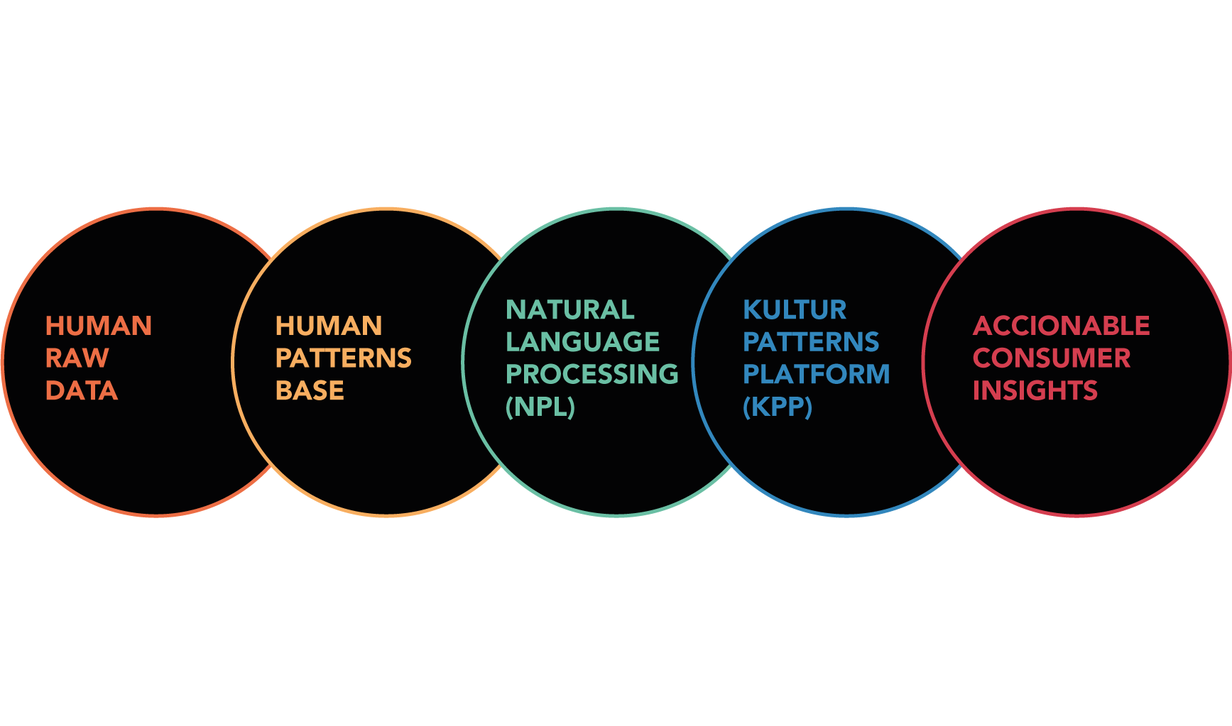
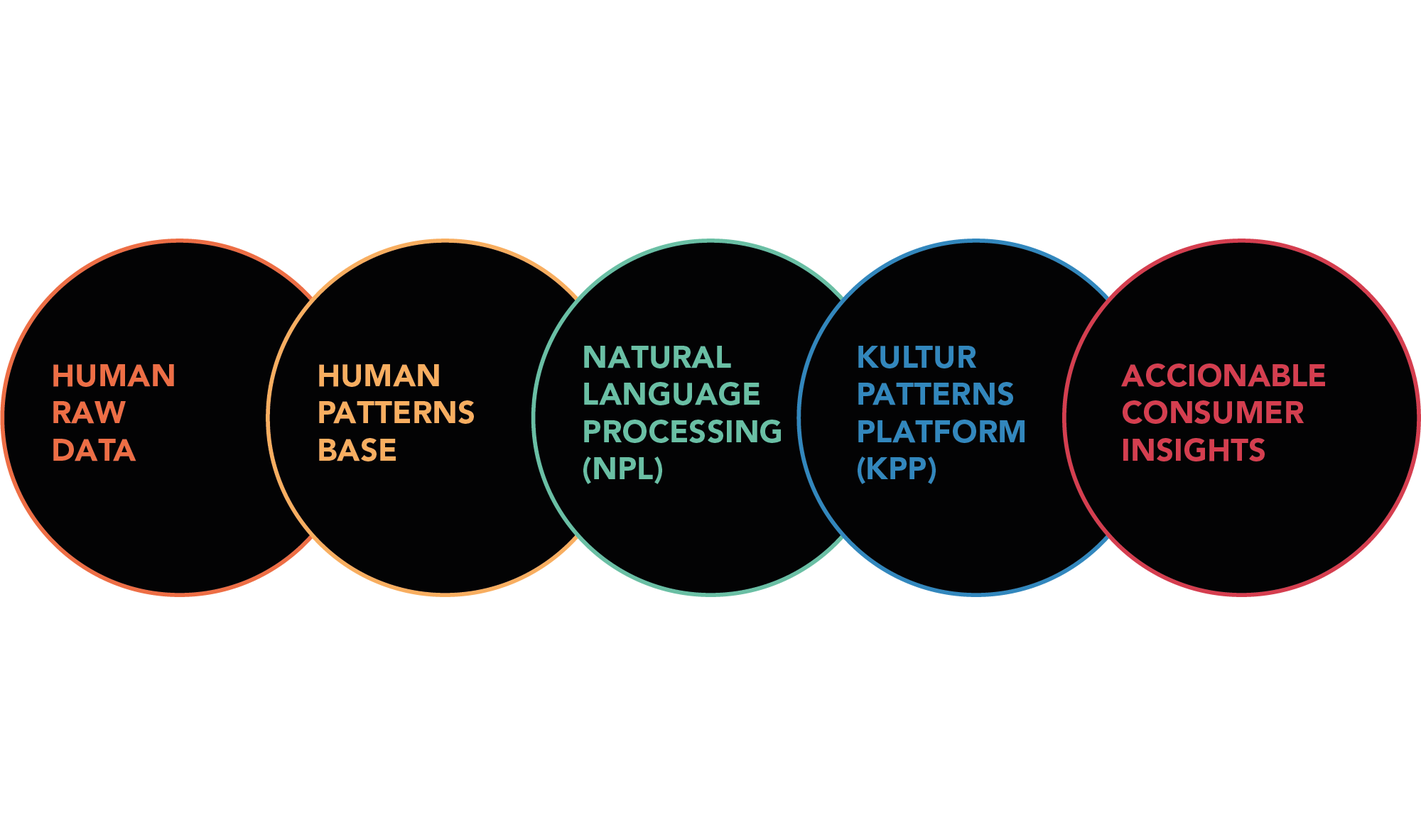
change main font

diff --git a/assets/css/style.css b/assets/css/style.css
@@ -1,1 +1,1 @@
-@import"https://fonts.googleapis.com/css2?family=Open+Sans:wght@700&family=Roboto+Mono:wght@200;300;400&display=swap";@media only screen and (min-width: 652px){.to-laptop{display:none !important}}.from-laptop{display:none}@media only screen and (min-width: 652px){.from-laptop{display:initial !important}}@media only screen and (min-width: 822px){.to-desktop{display:none !important}}.from-desktop{display:none}@media only screen and (min-width: 822px){.from-desktop{display:initial !important}}html,body,p,ol,ul,li,dl,dt,dd,blockquote,figure,fieldset,form,legend,textarea,pre,iframe,hr,h1,h2,h3,h4,h5,h6{padding:0;margin:0;-moz-osx-font-smoothing:grayscale;-webkit-font-smoothing:antialiased}html{box-sizing:border-box;font-family:"Roboto Mono",monospace;margin-top:0 !important}@media only screen and (min-width: 400px){html{font-size:1rem}}@media only screen and (min-width: 1500px){html{font-size:1.5rem}}@media only screen and (min-width: 4000px){html{font-size:3rem}}*,*::before,*::after{box-sizing:inherit}body{font-weight:normal;color:#fff;text-align:left;background-color:#000}h1,h2,h3,h4,h5,h6{font-family:"Open Sans",sans-serif}a,p,span,div{font-size:1rem}h1,h1 *{font-size:2rem}h2,h2 *{font-size:1.6rem}h3,h3 *{font-size:1.3rem}h4,h4 *{font-size:1.2rem}h5,h5 *{font-size:1.1rem}h6,h6 *{font-size:1rem}@media only screen and (min-width: 822px){h1,h1 *{font-size:2.5rem}h2,h2 *{font-size:1.9rem}}p{font-weight:300;padding-bottom:1rem}button{cursor:pointer}img{height:auto;width:100%}main{margin:auto;overflow:hidden}main>*{background-color:#000}.display-block{display:block}.icon{width:1rem;display:inline-flex;justify-content:center}.icon img{height:100%;width:auto}.post-thumbnail{max-height:50vh;overflow:hidden}.btn{border:none;outline:0;padding:.8rem 3rem;width:100%;font-weight:bold;font-size:1rem;border-radius:2rem;cursor:pointer}.btn-red{color:#fff;background-color:#d53e4f}.btn-red:hover{background-color:#67c1a4;color:#000}.mobile-menu .modal-content{background-color:#d53e4f}.mobile-menu .modal-content .logo{padding:.8rem 1rem;height:2.5rem}.desktop-menu-nav-container{display:flex;align-items:center}.desktop-menu .subscription-button{height:2rem;display:flex;justify-content:center;align-items:center;font-size:1rem;width:max-content;padding:0 2rem}.kulturai-mobile-menu ul,.kulturai-desktop-menu ul{list-style:none}.kulturai-mobile-menu li,.kulturai-desktop-menu li{align-items:center;display:flex;margin-right:.5rem}.kulturai-mobile-menu a,.kulturai-desktop-menu a{color:#fff;padding:.6rem;text-decoration:none;width:100%}.kulturai-mobile-menu{margin:auto;padding-left:1.5rem;font-weight:200;margin-top:.5rem}.kulturai-desktop-menu{font-family:"Open Sans",sans-serif;font-weight:300}.kulturai-desktop-menu ul{display:flex;justify-content:flex-end;margin-right:.5rem}.kulturai-desktop-menu li.current-menu-item a{color:#d53e4f}.kulturai-desktop-menu a:hover{color:#67c1a4}.modal{display:flex;height:100%;position:fixed;width:100%;z-index:10000;margin:auto}.modal-background{align-items:center;background-color:#000;display:flex;height:100%;justify-content:center;opacity:.8;flex-basis:40%;flex-grow:1}.modal-background img{width:.8rem}@media only screen and (min-width: 822px){.modal-background{background-color:rgba(0,0,0,0)}.modal-background img{display:none}}.modal-content{background-color:#fff;padding:1rem;flex-basis:80%;overflow:hidden}.modal-header{max-height:2.5rem}.modal--left .modal-content,.modal--right .modal-content{max-width:19rem}@media only screen and (min-width: 822px){.modal--left .modal-content,.modal--right .modal-content{max-width:25rem}}.modal--left{transition:right .3s ease-out;flex-direction:row-reverse;right:100%;top:0}.modal--left.modal--show{right:0}.modal--right{transition:left .3s ease-out;flex-direction:row;left:100%;top:0}.modal--right.modal--show{left:0}.modal--bottom{transition:top .3s ease-out;flex-direction:column;top:100%;left:0}.modal--bottom.modal--show{top:0}.modal--bottom.modal--round .modal-content{border-radius:2rem 2rem 0 0}.modal--bottom.modal-background{flex-basis:20%}.modal--bottom.modal-content{flex-basis:80%}.modal--dark .modal-content{background:#000;border-left:.125rem solid #fff}.padding-bottom{padding-bottom:3rem}.padding-top{padding-top:3rem}.margin-bottom{margin-bottom:3rem}.margin-top{margin-top:3rem}.section-block{padding-left:1rem;padding-right:1rem}@media only screen and (min-width: 400px){.section-block{padding-left:2.5rem;padding-right:2.5rem}}.paginator{color:#bda869;padding:3rem 0 0;margin:auto;width:max-content;display:flex}@media only screen and (min-width: 652px){.paginator{margin:initial;margin-left:auto;padding:3rem 3rem 0 0}}.paginator-text{margin-right:2rem}.paginator-arrow{display:flex}.paginator-arrow-left{display:flex;transform:rotate(180deg);margin-right:2rem}.paginator-arrow-right{display:flex}.paginator-arrow-icon{display:flex}.paginator-arrow--hide{opacity:.5;cursor:auto}@media only screen and (min-width: 652px){#subscription-modal{flex-direction:row;left:100%;top:0;transition:left .3s ease-out}#subscription-modal.modal--show{left:0}#subscription-modal .modal-content{border-radius:0;max-width:25rem}#subscription-modal .modal-header{display:none}}.image-slider .slide-content{display:flex}@media only screen and (min-width: 652px){.image-slider .slide-content{width:100% !important;display:block}.image-slider .slide-content img{width:100% !important}}.kulturai-form-group{margin:1rem}.kulturai-form-control{width:100%;border:0;outline:0}.kulturai-form-space-2{margin-top:2rem}.kulturai-form textarea,.kulturai-form input[type=text],.kulturai-form input[type=email],.kulturai-form input[type=number]{padding:.4rem 1rem;border-radius:1rem;font-size:1rem;font-family:"Roboto Mono",monospace;font-weight:200}.alert{width:100%;overflow:hidden;border-radius:.3125rem;margin-bottom:2rem;transition:height 1s,padding 1s,opacity 1s;height:0;padding:0 .625rem;opacity:1}.alert--open{height:3.125rem;padding:.3125rem .25rem}.alert--close{opacity:0}.alert-success{background:#61b393}.kulturio-header{background-color:rgba(0,0,0,0);display:flex;height:3rem;justify-content:flex-end;padding:0 .625rem;position:relative;width:100%}.kulturio-header .hamburguer-menu,.kulturio-header .logo{height:100%;padding:1rem}.kulturio-header .hamburguer-menu img,.kulturio-header .logo img{height:100%;width:auto}.kulturio-header .hamburguer-menu{cursor:pointer;padding:1rem}.kulturio-header .hamburguer-menu.fixed{position:absolute;right:.625rem;top:0}.kulturio-header .sticky-header{background:#000;height:3.125rem;left:0;padding:0 .625rem;position:fixed;top:-3.125rem;transition:top .5s;width:100%;z-index:999}.kulturio-header .sticky-header>div{display:flex;margin:auto;height:100%;justify-content:space-between}.kulturio-header.scrolled .sticky-header{top:0}.fixed-header .kulturio-header .static-header{visibility:hidden}.fixed-header .kulturio-header .sticky-header{top:0}.fixed-header .kulturio-header>.hamburguer-menu{display:none}.hidden-header .kulturio-header{display:none}.home-video{height:70%;position:absolute;top:0;left:0;z-index:-2;width:100%;overflow:hidden;height:100%}.home-video-content{position:relative}.home-video-content:after{content:"";display:block;position:absolute;width:100%;height:100%;top:0;left:0;background-image:linear-gradient(transparent 0%, black 50%)}.home-video video{height:100%;width:auto}@media only screen and (min-width: 1024px){.home-video video{width:100%;height:auto}}.intro{display:flex;flex-direction:column;justify-content:space-between;min-height:37.5rem;background-color:rgba(0,0,0,0);max-width:75rem;margin:auto}@media only screen and (min-width: 652px){.intro{margin-top:2rem;flex-direction:row;min-height:auto}}.intro-info{display:flex;flex-direction:column;height:calc(100vh - 3rem - 3rem - 2.5rem);justify-content:space-between;padding-bottom:3rem}@media only screen and (min-width: 652px){.intro-info{flex-basis:50%;justify-content:flex-start;height:100%}.intro-info button{max-width:18rem}}.intro-icon{margin:0 auto;max-width:31.25rem;width:13rem}@media only screen and (min-width: 652px){.intro-icon{margin:0;width:100%}}.intro-description{line-height:1.2;text-align:center;max-width:26rem;margin:auto}@media only screen and (min-width: 652px){.intro-description{margin:3rem 0;text-align:left}}.intro-image{width:130%;position:relative;left:50%;margin-left:-65%;padding-top:2rem;background-color:#000;max-width:31.25rem}@media only screen and (min-width: 652px){.intro-image{flex-basis:50%;margin:0;position:static;background-color:rgba(0,0,0,0)}}.subscription-button-mobile{display:none;position:fixed;padding:1rem;width:100%;left:0;z-index:10;bottom:0}.subscription-button-mobile button{max-width:100%}.subscription-button-mobile.fixed{display:block}@media only screen and (min-width: 822px){.subscription-button-mobile.fixed{display:none}}.whoarewe{text-align:center}.whoarewe-text{max-width:40.6rem;margin:auto}.whoarewe-image{margin-bottom:6rem}@media only screen and (min-width: 652px){.whoarewe-image{transform:translateX(0) !important;max-width:45rem;margin:6rem auto}}.whoarewe-image img{width:220%;height:100%}@media only screen and (min-width: 652px){.whoarewe-image img{width:100%}}.whoarewe-slide{display:flex;justify-content:flex-end;margin-top:4rem;margin-bottom:2rem}.whoarewe-slide>span{display:flex;flex-direction:column;text-align:left;line-height:0;font-size:1rem;position:relative;right:0}@media only screen and (min-width: 652px){.whoarewe-slide{visibility:hidden}}.whoarewe-table{width:20rem;margin:auto;margin-top:1.2rem;width:100%}@media only screen and (min-width: 652px){.whoarewe-table{display:flex;width:auto;max-width:81rem;margin:2rem auto}}.whoarewe-table-row{position:relative}.whoarewe-table-row:after{content:"";display:block;width:.05rem;background:#fff;margin:1.5rem auto;height:5rem}.whoarewe-table-row:last-child:after{display:none}@media only screen and (min-width: 652px){.whoarewe-table-row{flex-basis:33%;padding:0 1rem}.whoarewe-table-row:after{margin:0;position:absolute;top:-0.2rem;right:0;height:90%}.whoarewe-table-row:first-child{padding-left:0}.whoarewe-table-row:last-child{padding-right:0}}.curve{width:100%}.curve svg path{stroke-width:3}@media only screen and (min-width: 592px){.curve svg path{stroke-width:2}}@media only screen and (min-width: 822px){.curve svg path{stroke-width:1}}.methodology{text-align:center}.methodology-text{max-width:37.5rem;margin:auto}@media only screen and (min-width: 652px){.methodology-image{transform:translateX(0) !important;max-width:45rem;margin:auto}}.methodology-image img{width:290%;height:100%}@media only screen and (min-width: 652px){.methodology-image img{width:100%}}.methodology-slide{display:flex;justify-content:flex-end;margin-top:4rem;margin-bottom:2rem}.methodology-slide>span{display:flex;flex-direction:column;text-align:left;line-height:0;font-size:1rem;position:relative;right:0}@media only screen and (min-width: 652px){.methodology-slide{visibility:hidden}}.value-proposition{text-align:center}@media only screen and (min-width: 822px){.value-proposition-table{display:flex;max-width:81rem;margin:auto}}.value-proposition-table-row{padding-bottom:4rem}@media only screen and (min-width: 822px){.value-proposition-table-row{flex-basis:33.33%;display:flex;flex-direction:column;justify-content:space-between;padding-left:1rem;padding-right:1rem;position:relative}.value-proposition-table-row:after{content:"";display:block;width:.05rem;background:#fff;margin:1.5rem auto;height:5rem;margin:0;position:absolute;top:10%;right:0;height:70%}.value-proposition-table-row:last-child:after{display:none}}.value-proposition .slide{margin-top:2rem}@media only screen and (min-width: 822px){.value-proposition .slide{transform:translateX(0) !important}}.value-proposition .slide-content{margin-top:1rem}@media only screen and (min-width: 652px){.value-proposition .slide-content{width:100% !important}.value-proposition .slide-content img{width:50%}}@media only screen and (min-width: 822px){.value-proposition .slide-content img{width:100%}}.background-fixed{min-height:20rem;background-attachment:fixed;background-position:top center;background-repeat:no-repeat;background-size:250% auto}@media only screen and (min-width: 482px){.background-fixed{background-size:230% auto}}@media only screen and (min-width: 652px){.background-fixed{background-size:cover;background-position:top center}}.services{text-align:center}@media only screen and (min-width: 652px){.services{padding-top:6rem}}.services-title{max-width:40rem;margin:auto}.services-table{max-width:18rem;margin:auto}@media only screen and (min-width: 652px){.services-table{display:flex;justify-content:space-around;max-width:81rem;margin:3rem auto}}.services-table-row{flex-basis:33.33%;margin-top:3rem}@media only screen and (min-width: 652px){.services-table-row{margin-right:2rem}.services-table-row:last-child{margin-right:0}}.services-table-row img{width:4rem}.newsletter{color:#000}.newsletter .contact-description strong{color:#d53e4f}.newsletter .kulturai-form-control{border:1px solid #707070}.about{padding:3rem;text-align:center;max-width:70rem;margin:auto}.about-logo{max-width:12.5rem;width:70%;margin:auto}.about-content{margin:2rem auto}.about-content-text p{margin-bottom:1rem}.about-arrow{height:15rem;margin:auto;font-size:.9rem}.about-ceo{margin-bottom:2rem}.about-ceo-text{margin-top:1rem}.about-ceo-photo{height:17rem;width:17rem;margin:auto;border-radius:50%;background-size:cover;background-position:center}@media only screen and (min-width: 822px){.about-logo{max-width:23rem}.about-divided{display:flex}.about-divided .about-content-text{text-align:left}.about-divided .about-content-text{text-align:left}.about-divided .about-ceo{width:50%;padding-right:1rem}.about-divided .about-content-text{width:50%}}.blog{max-width:70rem;margin:auto}.blog-title{width:4rem;margin:auto;display:flex;flex-direction:column}.blog-title h2{color:#d53e4f;text-align:center}.blog-description{text-align:center;display:block;width:100%;max-width:24rem;margin:0 auto 0;padding-top:1rem;font-weight:300}.blog-list{display:grid;gap:2rem 1rem;padding:2rem}@media only screen and (min-width: 652px){.blog-list{grid-template-columns:1fr 1fr}}@media only screen and (min-width: 822px){.blog-list{grid-template-columns:1fr 1fr 1fr}}.blog-card{height:13rem;overflow:hidden;position:relative;border-radius:.5rem;background-color:#fff;max-width:20rem;margin:auto;width:100%}.blog-card-content{position:absolute;bottom:0;left:0;padding:.7rem;line-height:1}.blog-card img{height:100%;width:auto;opacity:.8}.blog-card a{display:flex;justify-content:center;align-items:center;height:100%;width:100%;text-decoration:none;color:#fff;text-shadow:1px 1px 2px gray;background-color:#000}.blog-card .blog-card-noimage{background-color:#fff}.blog-card .blog-card-noimage img{width:6rem !important;height:auto !important;opacity:.3}.contact{max-width:70rem;margin-left:auto;margin-right:auto;max-width:22rem}.contact-title{width:4rem;margin:auto;display:flex;flex-direction:column}.contact-title h2{color:#d53e4f;text-align:center}.contact-description{text-align:center;display:block;max-width:19rem;margin:0 auto 0;padding-top:1rem;font-weight:300}.contact-form{margin:auto;padding:1rem;padding-top:0}.resources-menu-action,.contact-menu-action{cursor:pointer}.contact-modal .contact-form{max-width:100%}.resources{margin-left:auto;margin-right:auto;position:relative}.resources-image{position:absolute;top:0;left:0;overflow:hidden;height:16.25rem;width:100%}.resources-image img{position:absolute;bottom:0}.resources-image:after{content:"";background:#000;height:1.625rem;display:block;width:100%;position:absolute;bottom:-0.8125rem;border-radius:50%}.resources-content{padding-top:15.625rem}.resources-description{text-align:center;display:block;max-width:13rem;margin:0 auto 0;padding-top:1rem;font-weight:300}.resources-form{max-width:22rem;margin:auto;padding:1rem;padding-top:0}.resource-modal .modal-content{padding:0}.singular{padding:3rem;max-width:70rem;margin:auto;position:relative}.singular-title{color:#d53e4f;margin-bottom:2rem}.singular-author{font-weight:bold}.singular-related{margin-top:1rem}.singular-related-title{color:#bda869;display:block}.singular-related-container{display:flex;width:350%}@media only screen and (min-width: 822px){.singular-related-container{width:125%}}@media only screen and (min-width: 4000px){.singular-related-container{width:100%}}.singular-related-card{margin-left:1rem;height:11rem}.singular-related-card.blog-card{max-width:25%}.singular-related-card:first-child{margin-left:0}@media only screen and (min-width: 822px){.singular{padding:4rem}.singular-info{margin-top:2rem}}.subscribed{padding:2rem}.subscribed-logo{margin-left:auto;width:15rem}@media only screen and (min-width: 652px){.subscribed-content *{font-size:1.2rem}}@media only screen and (min-width: 822px){.subscribed-main{display:flex;flex-direction:row-reverse;margin-top:4rem;justify-content:space-around}}.subscribed-container{padding:4rem 0 2rem 0;max-width:19rem}@media only screen and (min-width: 482px){.subscribed-container{padding:4rem 2rem;display:flex;flex-direction:column;max-width:29rem}}.subscribed-title{margin-bottom:1.5rem}.subscribed-image{display:flex;justify-content:center;max-width:20rem;margin:auto}@media only screen and (min-width: 652px){.subscribed-image{margin:initial}}.error{font-weight:300}.error-content{margin:3rem 2rem 0;max-width:19rem}.error-image{max-width:30rem;width:100%}@media only screen and (min-width: 652px){.error-image{position:absolute;right:0;bottom:-4rem;z-index:-1}}.error-title{font-size:1.6rem;line-height:1}.error-number{font-size:5.5rem;font-weight:100}.error-text{margin-top:2rem}@media only screen and (min-width: 822px){.error-padding{margin-left:6rem;position:absolute;max-width:20rem;margin-top:4rem}}.error a{text-decoration:none;color:#5fb393;font-weight:bold}.footer{position:relative;padding-bottom:7rem}@media only screen and (min-width: 822px){.footer{padding-bottom:2rem;max-width:81rem;margin:0 auto 3rem}}.footer-org-info{width:15.06rem;text-align:justify}.footer-section{padding-bottom:1rem}.footer-item{line-height:1.7;white-space:nowrap}.footer-item a{text-decoration:none;color:#fff}.footer-social-media{padding-left:.5rem}.footer-contact{padding-left:1rem}.footer-social-media .icon{padding-left:2rem;margin-top:1rem}.footer-mobile-bolo{position:absolute;bottom:0;right:0}.footer-mobile-bolo img{margin-left:60%}@media only screen and (min-width: 400px){.footer-mobile-bolo{display:block}.footer-mobile-bolo img{margin-left:40%}}@media only screen and (min-width: 652px){.footer-mobile-bolo{display:none}}@media only screen and (min-width: 652px){.footer,.footer-info{display:flex;justify-content:space-between;align-items:center;flex-grow:1}.footer-info{max-width:50%;min-width:27rem}}.footer-curve.curve{transform:rotateX(180deg)}.footer-hidden .footer,.footer-hidden .footer-curve{display:none}.footer-hidden main{margin-bottom:3rem}/*# sourceMappingURL=style.css.map */
+@import"https://fonts.googleapis.com/css2?family=Open+Sans:wght@200;300;400;700";@media only screen and (min-width: 652px){.to-laptop{display:none !important}}.from-laptop{display:none}@media only screen and (min-width: 652px){.from-laptop{display:initial !important}}@media only screen and (min-width: 822px){.to-desktop{display:none !important}}.from-desktop{display:none}@media only screen and (min-width: 822px){.from-desktop{display:initial !important}}html,body,p,ol,ul,li,dl,dt,dd,blockquote,figure,fieldset,form,legend,textarea,pre,iframe,hr,h1,h2,h3,h4,h5,h6{padding:0;margin:0;-moz-osx-font-smoothing:grayscale;-webkit-font-smoothing:antialiased}html{box-sizing:border-box;font-family:"Open Sans",sans-serif;margin-top:0 !important}@media only screen and (min-width: 400px){html{font-size:1rem}}@media only screen and (min-width: 1500px){html{font-size:1.5rem}}@media only screen and (min-width: 4000px){html{font-size:3rem}}*,*::before,*::after{box-sizing:inherit}body{font-weight:normal;color:#fff;text-align:left;background-color:#000}h1,h2,h3,h4,h5,h6{font-family:"Open Sans",sans-serif}a,p,span,div{font-size:1rem}h1,h1 *{font-size:2rem}h2,h2 *{font-size:1.6rem}h3,h3 *{font-size:1.3rem}h4,h4 *{font-size:1.2rem}h5,h5 *{font-size:1.1rem}h6,h6 *{font-size:1rem}@media only screen and (min-width: 822px){h1,h1 *{font-size:2.5rem}h2,h2 *{font-size:1.9rem}}p{font-weight:400;padding-bottom:1rem}button{cursor:pointer}img{height:auto;width:100%}main{margin:auto;overflow:hidden}main>*{background-color:#000}.display-block{display:block}.icon{width:1rem;display:inline-flex;justify-content:center}.icon img{height:100%;width:auto}.post-thumbnail{max-height:50vh;overflow:hidden}.btn{border:none;outline:0;padding:.8rem 3rem;width:100%;font-weight:bold;font-size:1rem;border-radius:2rem;cursor:pointer}.btn-red{color:#fff;background-color:#d53e4f}.btn-red:hover{background-color:#67c1a4;color:#000}.mobile-menu .modal-content{background-color:#d53e4f}.mobile-menu .modal-content .logo{padding:.8rem 1rem;height:2.5rem}.desktop-menu-nav-container{display:flex;align-items:center}.desktop-menu .subscription-button{height:2rem;display:flex;justify-content:center;align-items:center;font-size:1rem;width:max-content;padding:0 2rem}.kulturai-mobile-menu ul,.kulturai-desktop-menu ul{list-style:none}.kulturai-mobile-menu li,.kulturai-desktop-menu li{align-items:center;display:flex;margin-right:.5rem}.kulturai-mobile-menu a,.kulturai-desktop-menu a{color:#fff;padding:.6rem;text-decoration:none;width:100%}.kulturai-mobile-menu{margin:auto;padding-left:1.5rem;font-weight:400;margin-top:.5rem}.kulturai-desktop-menu{font-family:"Open Sans",sans-serif;font-weight:600}.kulturai-desktop-menu ul{display:flex;justify-content:flex-end;margin-right:.5rem}.kulturai-desktop-menu li.current-menu-item a{color:#d53e4f}.kulturai-desktop-menu a:hover{color:#67c1a4}.modal{display:flex;height:100%;position:fixed;width:100%;z-index:10000;margin:auto}.modal-background{align-items:center;background-color:#000;display:flex;height:100%;justify-content:center;opacity:.8;flex-basis:20%;flex-grow:1}.modal-background img{width:.8rem}@media only screen and (min-width: 822px){.modal-background{background-color:rgba(0,0,0,0)}.modal-background img{display:none}}.modal-content{background-color:#fff;padding:1rem;flex-basis:80%;overflow:hidden}.modal-header{max-height:2.5rem}.modal--left .modal-content,.modal--right .modal-content{max-width:19rem}@media only screen and (min-width: 822px){.modal--left .modal-content,.modal--right .modal-content{max-width:25rem}}.modal--left{transition:right .3s ease-out;flex-direction:row-reverse;right:100%;top:0}.modal--left.modal--show{right:0}.modal--right{transition:left .3s ease-out;flex-direction:row;left:100%;top:0}.modal--right.modal--show{left:0}.modal--bottom{transition:top .3s ease-out;flex-direction:column;top:100%;left:0}.modal--bottom.modal--show{top:0}.modal--bottom.modal--round .modal-content{border-radius:2rem 2rem 0 0}.modal--bottom.modal-background{flex-basis:20%}.modal--bottom.modal-content{flex-basis:80%}.modal--dark .modal-content{background:#000;border-left:.125rem solid #fff}.padding-bottom{padding-bottom:3rem}.padding-top{padding-top:3rem}.margin-bottom{margin-bottom:3rem}.margin-top{margin-top:3rem}.section-block{padding-left:1rem;padding-right:1rem}@media only screen and (min-width: 400px){.section-block{padding-left:2.5rem;padding-right:2.5rem}}.paginator{color:#bda869;padding:3rem 0 0;margin:auto;width:max-content;display:flex}@media only screen and (min-width: 652px){.paginator{margin:initial;margin-left:auto;padding:3rem 3rem 0 0}}.paginator-text{margin-right:2rem}.paginator-arrow{display:flex}.paginator-arrow-left{display:flex;transform:rotate(180deg);margin-right:2rem}.paginator-arrow-right{display:flex}.paginator-arrow-icon{display:flex}.paginator-arrow--hide{opacity:.5;cursor:auto}@media only screen and (min-width: 652px){#subscription-modal{flex-direction:row;left:100%;top:0;transition:left .3s ease-out}#subscription-modal.modal--show{left:0}#subscription-modal .modal-content{border-radius:0;max-width:25rem}#subscription-modal .modal-header{display:none}}.image-slider .slide-content{display:flex}@media only screen and (min-width: 652px){.image-slider .slide-content{width:100% !important;display:block}.image-slider .slide-content img{width:100% !important}}.kulturai-form-group{margin:1rem}.kulturai-form-control{width:100%;border:0;outline:0}.kulturai-form-space-2{margin-top:2rem}.kulturai-form textarea,.kulturai-form input[type=text],.kulturai-form input[type=email],.kulturai-form input[type=number]{padding:.4rem 1rem;border-radius:1rem;font-size:1rem;font-family:"Open Sans",sans-serif;font-weight:300}.alert{width:100%;overflow:hidden;border-radius:.3125rem;margin-bottom:2rem;transition:height 1s,padding 1s,opacity 1s;height:0;padding:0 .625rem;opacity:1}.alert--open{height:3.125rem;padding:.3125rem .25rem}.alert--close{opacity:0}.alert-success{background:#61b393}.kulturio-header{background-color:rgba(0,0,0,0);display:flex;height:3rem;justify-content:flex-end;padding:0 .625rem;position:relative;width:100%}.kulturio-header .hamburguer-menu,.kulturio-header .logo{height:100%;padding:1rem}.kulturio-header .hamburguer-menu img,.kulturio-header .logo img{height:100%;width:auto}.kulturio-header .hamburguer-menu{cursor:pointer;padding:1rem}.kulturio-header .hamburguer-menu.fixed{position:absolute;right:.625rem;top:0}.kulturio-header .sticky-header{background:#000;height:3.125rem;left:0;padding:0 .625rem;position:fixed;top:-3.125rem;transition:top .5s;width:100%;z-index:999}.kulturio-header .sticky-header>div{display:flex;margin:auto;height:100%;justify-content:space-between}.kulturio-header.scrolled .sticky-header{top:0}.fixed-header .kulturio-header .static-header{visibility:hidden}.fixed-header .kulturio-header .sticky-header{top:0}.fixed-header .kulturio-header>.hamburguer-menu{display:none}.hidden-header .kulturio-header{display:none}.home-video{height:70%;position:absolute;top:0;left:0;z-index:-2;width:100%;overflow:hidden;height:100%}.home-video-content{position:relative}.home-video-content:after{content:"";display:block;position:absolute;width:100%;height:100%;top:0;left:0;background-image:linear-gradient(transparent 0%, black 50%)}.home-video video{height:100%;width:auto}@media only screen and (min-width: 1024px){.home-video video{width:100%;height:auto}}.intro{display:flex;flex-direction:column;justify-content:space-between;min-height:37.5rem;background-color:rgba(0,0,0,0);max-width:75rem;margin:auto}@media only screen and (min-width: 652px){.intro{margin-top:2rem;flex-direction:row;min-height:auto}}.intro-info{display:flex;flex-direction:column;height:calc(100vh - 3rem - 3rem - 2.5rem);justify-content:space-between;padding-bottom:3rem}@media only screen and (min-width: 652px){.intro-info{flex-basis:50%;justify-content:flex-start;height:100%}.intro-info button{max-width:18rem}}.intro-icon{margin:0 auto;max-width:31.25rem;width:13rem}@media only screen and (min-width: 652px){.intro-icon{margin:0;width:100%}}.intro-description{line-height:1.2;text-align:center;max-width:26rem;margin:auto}@media only screen and (min-width: 652px){.intro-description{margin:3rem 0;text-align:left}}.intro-image{width:130%;position:relative;left:50%;margin-left:-65%;padding-top:2rem;background-color:#000;max-width:31.25rem}@media only screen and (min-width: 652px){.intro-image{flex-basis:50%;margin:0;position:static;background-color:rgba(0,0,0,0)}}.subscription-button-mobile{display:none;position:fixed;padding:1rem;width:100%;left:0;z-index:10;bottom:0}.subscription-button-mobile button{max-width:100%}.subscription-button-mobile.fixed{display:block}@media only screen and (min-width: 822px){.subscription-button-mobile.fixed{display:none}}.whoarewe{text-align:center}.whoarewe-text{max-width:40.6rem;margin:auto}.whoarewe-image{margin-bottom:6rem}@media only screen and (min-width: 652px){.whoarewe-image{transform:translateX(0) !important;max-width:45rem;margin:6rem auto}}.whoarewe-image img{width:220%;height:100%}@media only screen and (min-width: 652px){.whoarewe-image img{width:100%}}.whoarewe-slide{display:flex;justify-content:flex-end;margin-top:4rem;margin-bottom:2rem}.whoarewe-slide>span{display:flex;flex-direction:column;text-align:left;line-height:0;font-size:1rem;position:relative;right:0}@media only screen and (min-width: 652px){.whoarewe-slide{visibility:hidden}}.whoarewe-table{width:20rem;margin:auto;margin-top:1.2rem;width:100%}@media only screen and (min-width: 652px){.whoarewe-table{display:flex;width:auto;max-width:81rem;margin:2rem auto}}.whoarewe-table-row{position:relative}.whoarewe-table-row:after{content:"";display:block;width:.05rem;background:#fff;margin:1.5rem auto;height:5rem}.whoarewe-table-row:last-child:after{display:none}@media only screen and (min-width: 652px){.whoarewe-table-row{flex-basis:33%;padding:0 1rem}.whoarewe-table-row:after{margin:0;position:absolute;top:-0.2rem;right:0;height:90%}.whoarewe-table-row:first-child{padding-left:0}.whoarewe-table-row:last-child{padding-right:0}}.curve{width:100%}.curve svg path{stroke-width:3}@media only screen and (min-width: 592px){.curve svg path{stroke-width:2}}@media only screen and (min-width: 822px){.curve svg path{stroke-width:1}}.methodology{text-align:center}.methodology-text{max-width:37.5rem;margin:auto}@media only screen and (min-width: 652px){.methodology-image{transform:translateX(0) !important;max-width:45rem;margin:auto}}.methodology-image img{width:290%;height:100%}@media only screen and (min-width: 652px){.methodology-image img{width:100%}}.methodology-slide{display:flex;justify-content:flex-end;margin-top:4rem;margin-bottom:2rem}.methodology-slide>span{display:flex;flex-direction:column;text-align:left;line-height:0;font-size:1rem;position:relative;right:0}@media only screen and (min-width: 652px){.methodology-slide{visibility:hidden}}.value-proposition{text-align:center}@media only screen and (min-width: 822px){.value-proposition-table{display:flex;max-width:81rem;margin:auto}}.value-proposition-table-row{padding-bottom:4rem}@media only screen and (min-width: 822px){.value-proposition-table-row{flex-basis:33.33%;display:flex;flex-direction:column;justify-content:space-between;padding-left:1rem;padding-right:1rem;position:relative}.value-proposition-table-row:after{content:"";display:block;width:.05rem;background:#fff;margin:1.5rem auto;height:5rem;margin:0;position:absolute;top:10%;right:0;height:70%}.value-proposition-table-row:last-child:after{display:none}}.value-proposition .slide{margin-top:2rem}@media only screen and (min-width: 822px){.value-proposition .slide{transform:translateX(0) !important}}.value-proposition .slide-content{margin-top:1rem}@media only screen and (min-width: 652px){.value-proposition .slide-content{width:100% !important}.value-proposition .slide-content img{width:50%}}@media only screen and (min-width: 822px){.value-proposition .slide-content img{width:100%}}.background-fixed{min-height:20rem;background-attachment:fixed;background-position:top center;background-repeat:no-repeat;background-size:250% auto}@media only screen and (min-width: 482px){.background-fixed{background-size:230% auto}}@media only screen and (min-width: 652px){.background-fixed{background-size:cover;background-position:top center}}.services{text-align:center}@media only screen and (min-width: 652px){.services{padding-top:6rem}}.services-title{max-width:40rem;margin:auto}.services-table{max-width:18rem;margin:auto}@media only screen and (min-width: 652px){.services-table{display:flex;justify-content:space-around;max-width:81rem;margin:3rem auto}}.services-table-row{flex-basis:33.33%;margin-top:3rem}@media only screen and (min-width: 652px){.services-table-row{margin-right:2rem}.services-table-row:last-child{margin-right:0}}.services-table-row img{width:4rem}.newsletter{color:#000}.newsletter .contact-description strong{color:#d53e4f}.newsletter .kulturai-form-control{border:1px solid #707070}.about{padding:3rem;text-align:center;max-width:70rem;margin:auto}.about-logo{max-width:12.5rem;width:70%;margin:auto}.about-content{margin:2rem auto}.about-content-text p{margin-bottom:1rem}.about-arrow{height:15rem;margin:auto;font-size:.9rem}.about-ceo{margin-bottom:2rem}.about-ceo-text{margin-top:1rem}.about-ceo-photo{height:17rem;width:17rem;margin:auto;border-radius:50%;background-size:cover;background-position:center}@media only screen and (min-width: 822px){.about-logo{max-width:23rem}.about-divided{display:flex}.about-divided .about-content-text{text-align:left}.about-divided .about-content-text{text-align:left}.about-divided .about-ceo{width:50%;padding-right:1rem}.about-divided .about-content-text{width:50%}}.blog{max-width:70rem;margin:auto}.blog-title{width:4rem;margin:auto;display:flex;flex-direction:column}.blog-title h2{color:#d53e4f;text-align:center}.blog-description{text-align:center;display:block;width:100%;max-width:24rem;margin:0 auto 0;font-weight:400;padding:1rem 1rem 0 1rem}.blog-list{display:grid;gap:2rem 1rem;padding:2rem}@media only screen and (min-width: 652px){.blog-list{grid-template-columns:1fr 1fr}}@media only screen and (min-width: 822px){.blog-list{grid-template-columns:1fr 1fr 1fr}}.blog-card{height:13rem;overflow:hidden;position:relative;border-radius:.5rem;background-color:#fff;max-width:20rem;margin:auto;width:100%}.blog-card-content{position:absolute;bottom:0;left:0;padding:.7rem;line-height:1}.blog-card img{height:100%;width:auto;opacity:.8}.blog-card a{display:flex;justify-content:center;align-items:center;height:100%;width:100%;text-decoration:none;color:#fff;text-shadow:1px 1px 2px gray;background-color:#000}.blog-card .blog-card-noimage{background-color:#fff}.blog-card .blog-card-noimage img{width:6rem !important;height:auto !important;opacity:.3}.contact{max-width:70rem;margin-left:auto;margin-right:auto;max-width:22rem}.contact-title{width:4rem;margin:auto;display:flex;flex-direction:column}.contact-title h2{color:#d53e4f;text-align:center}.contact-description{text-align:center;display:block;max-width:19rem;margin:0 auto 0;padding-top:1rem;font-weight:400}.contact-form{margin:auto;padding:1rem;padding-top:0}.resources-menu-action,.contact-menu-action{cursor:pointer}.contact-modal .contact-form{max-width:100%}.resources{margin-left:auto;margin-right:auto;position:relative}.resources-image{position:absolute;top:0;left:0;overflow:hidden;height:16.25rem;width:100%}.resources-image img{position:absolute;bottom:0}.resources-image:after{content:"";background:#000;height:1.625rem;display:block;width:100%;position:absolute;bottom:-0.8125rem;border-radius:50%}.resources-content{padding-top:15.625rem}.resources-description{text-align:center;display:block;max-width:13rem;margin:0 auto 0;padding-top:1rem;font-weight:400}.resources-form{max-width:22rem;margin:auto;padding:1rem;padding-top:0}.resource-modal .modal-content{padding:0}.singular{padding:3rem;max-width:70rem;margin:auto;position:relative}.singular-title{color:#d53e4f;margin-bottom:2rem}.singular-author{font-weight:bold}.singular-related{margin-top:1rem}.singular-related-title{color:#bda869;display:block}.singular-related-container{display:flex;width:350%}@media only screen and (min-width: 822px){.singular-related-container{width:125%}}@media only screen and (min-width: 4000px){.singular-related-container{width:100%}}.singular-related-card{margin-left:1rem;height:11rem}.singular-related-card.blog-card{max-width:25%}.singular-related-card:first-child{margin-left:0}@media only screen and (min-width: 822px){.singular{padding:4rem}.singular-info{margin-top:2rem}}.subscribed{padding:2rem}.subscribed-logo{margin-left:auto;width:15rem}@media only screen and (min-width: 652px){.subscribed-content *{font-size:1.2rem}}@media only screen and (min-width: 822px){.subscribed-main{display:flex;flex-direction:row-reverse;margin-top:4rem;justify-content:space-around}}.subscribed-container{padding:4rem 0 2rem 0;max-width:19rem}@media only screen and (min-width: 482px){.subscribed-container{padding:4rem 2rem;display:flex;flex-direction:column;max-width:29rem}}.subscribed-title{margin-bottom:1.5rem}.subscribed-image{display:flex;justify-content:center;max-width:15rem;margin:auto}@media only screen and (min-width: 652px){.subscribed-image{margin:initial}}.error{font-weight:400}.error-content{margin:3rem 2rem 0;max-width:19rem}@media only screen and (min-width: 652px){.error-content{margin:4rem 4rem 0}}.error-image{max-width:30rem;width:100%}@media only screen and (min-width: 652px){.error-image{position:absolute;right:0;bottom:-4rem;z-index:-1}}.error-title{font-size:1.6rem;line-height:1}.error-number{font-size:5.5rem;font-weight:200}.error-text{margin-top:2rem}@media only screen and (min-width: 822px){.error-padding{margin-left:6rem;position:absolute;max-width:20rem;margin-top:4rem}}.error a{text-decoration:none;color:#5fb393;font-weight:bold}.footer{position:relative;padding-bottom:7rem}@media only screen and (min-width: 822px){.footer{padding-bottom:2rem;max-width:81rem;margin:0 auto 3rem}}.footer-org-info{width:15.06rem;text-align:justify}.footer-section{padding-bottom:1rem}.footer-item{line-height:1.7;white-space:nowrap}.footer-item a{text-decoration:none;color:#fff}.footer-social-media{padding-left:.5rem}.footer-contact{padding-left:1rem}.footer-social-media .icon{padding-left:2rem;margin-top:1rem}.footer-mobile-bolo{position:absolute;bottom:0;right:0}.footer-mobile-bolo img{margin-left:60%}@media only screen and (min-width: 400px){.footer-mobile-bolo{display:block}.footer-mobile-bolo img{margin-left:40%}}@media only screen and (min-width: 652px){.footer-mobile-bolo{display:none}}@media only screen and (min-width: 652px){.footer,.footer-info{display:flex;justify-content:space-between;align-items:center;flex-grow:1}.footer-info{max-width:50%;min-width:27rem}}.footer-curve.curve{transform:rotateX(180deg)}.footer-hidden .footer,.footer-hidden .footer-curve{display:none}.footer-hidden main{margin-bottom:3rem}/*# sourceMappingURL=style.css.map */

diff --git a/assets/sass/components/error/index.scss b/assets/sass/components/error/index.scss
@@ -1,8 +1,11 @@
 .error {
-    font-weight: 300;
+    font-weight: 400;
     &-content {
         margin: 3rem 2rem 0;
         max-width: 19rem;
+        @include media(laptop) {
+            margin: 4rem 4rem 0;
+        }
     }
 
     &-image {
@@ -23,7 +26,7 @@
 
     &-number {
         font-size: 5.5rem;
-        font-weight: 100;
+        font-weight: 200;
     }
 
     &-text {

diff --git a/assets/sass/blocks/_menu.scss b/assets/sass/blocks/_menu.scss
@@ -48,14 +48,14 @@
 .kulturai-mobile-menu {
     margin: auto;
     padding-left: 1.5rem;
-    font-weight: 200;
+    font-weight: 400;
     margin-top: 0.5rem;
 }
 
 .kulturai-desktop-menu {
     // max-width: $max_content_width;
-    font-family: $h-font-family;
-    font-weight: 300;
+    font-family: $font-family;
+    font-weight: 600;
     
     ul {
         display: flex;

diff --git a/assets/sass/settings/fonts.scss b/assets/sass/settings/fonts.scss
@@ -1,2 +1,2 @@
 // Do we need to serve a font? Add the @font-face styles here.
-@import url('https://fonts.googleapis.com/css2?family=Open+Sans:wght@700&family=Roboto+Mono:wght@200;300;400&display=swap');
+@import url('https://fonts.googleapis.com/css2?family=Open+Sans:wght@200;300;400;700');

diff --git a/assets/sass/settings/global.scss b/assets/sass/settings/global.scss
@@ -85,7 +85,7 @@
  h4,
  h5,
  h6 {
-    font-family: $h-font-family;
+    font-family: $font-family;
  }
 
  a,p,span,div {
@@ -153,7 +153,7 @@
 
 
  p {
-    font-weight: 300;
+    font-weight: 400;
     padding-bottom: 1rem;
  }
  

diff --git a/assets/sass/components/blog/_list.scss b/assets/sass/components/blog/_list.scss
@@ -19,8 +19,8 @@
         width: 100%;
         max-width: 24rem;
         margin: 0 auto 0;
-        padding-top: 1rem;
-        font-weight: 300;
+        font-weight: 400;
+        padding: 1rem 1rem 0 1rem;
     }
 
     &-list {

diff --git a/assets/sass/components/subscribed/index.scss b/assets/sass/components/subscribed/index.scss
@@ -41,7 +41,7 @@
     &-image {
         display: flex;
         justify-content: center;
-        max-width: 20rem;
+        max-width: 15rem;
         margin: auto;
         @include media(laptop) {
             margin: initial;

diff --git a/assets/sass/settings/variables.scss b/assets/sass/settings/variables.scss
@@ -23,8 +23,7 @@ $mid-aqua: #67c1a4;
 
 
 //Fonts
-$h-font-family: 'Open Sans', sans-serif;
-$font-family: 'Roboto Mono', monospace;
+$font-family: 'Open Sans', sans-serif;
 $font-size: 1rem;
 
 //Distances

diff --git a/assets/sass/components/contact/index.scss b/assets/sass/components/contact/index.scss
@@ -21,7 +21,7 @@
         max-width: 19rem;
         margin: 0 auto 0;
         padding-top: 1rem;
-        font-weight: 300;
+        font-weight: 400;
     }
 
     &-form {

diff --git a/assets/sass/components/resources/index.scss b/assets/sass/components/resources/index.scss
@@ -40,7 +40,7 @@
         max-width: 13rem;
         margin: 0 auto 0;
         padding-top: 1rem;
-        font-weight: 300;
+        font-weight: 400;
     }
 
     &-form {

diff --git a/assets/sass/blocks/_form.scss b/assets/sass/blocks/_form.scss
@@ -21,6 +21,6 @@
         border-radius: 1rem;
         font-size: 1rem;
         font-family: $font-family;
-        font-weight: 200;
+        font-weight: 300;
     }
 }

diff --git a/assets/sass/blocks/_modal.scss b/assets/sass/blocks/_modal.scss
@@ -17,7 +17,7 @@
     height: 100%;
     justify-content: center;
     opacity: .8;
-    flex-basis: 40%;
+    flex-basis: 20%;
     flex-grow: 1;
 
     img {
